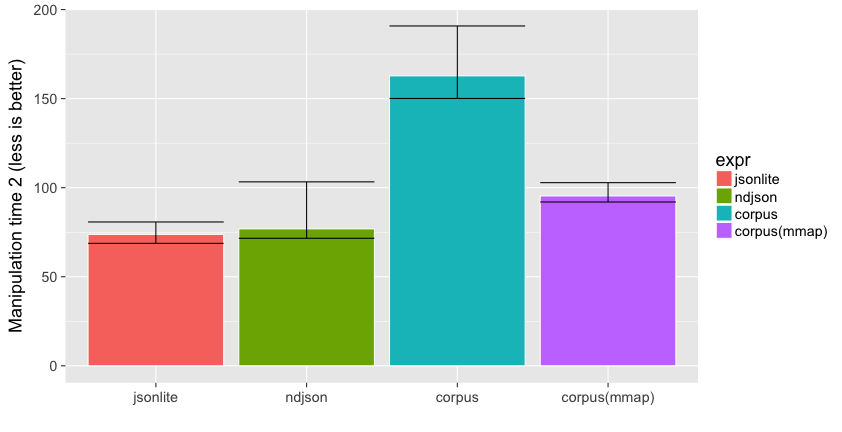
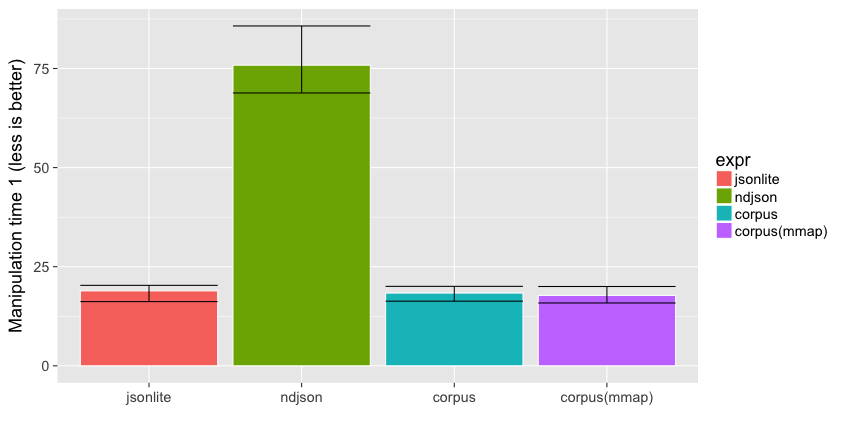
Update benchmarks

diff --git a/benchmark.md b/benchmark.md
@@ -17,6 +17,38 @@ Required packages:
 install.packages(c("nycflights13", "dplyr", "ggplot2", "microbenchmark", "jsonlite", "ndjson", "corpus"))
 ```
 
+
+```r
+options(stringsAsFactors = FALSE)
+sessionInfo()
+```
+
+```
+R version 3.4.0 (2017-04-21)
+Platform: x86_64-apple-darwin15.6.0 (64-bit)
+Running under: macOS Sierra 10.12.5
+
+Matrix products: default
+BLAS: /System/Library/Frameworks/Accelerate.framework/Versions/A/Frameworks/vecLib.framework/Versions/A/libBLAS.dylib
+LAPACK: /Library/Frameworks/R.framework/Versions/3.4/Resources/lib/libRlapack.dylib
+
+locale:
+[1] en_US.UTF-8/en_US.UTF-8/en_US.UTF-8/C/en_US.UTF-8/en_US.UTF-8
+
+attached base packages:
+[1] stats     graphics  grDevices utils     datasets  methods   base     
+
+other attached packages:
+[1] ggplot2_2.2.1 dplyr_0.5.0   knitr_1.16   
+
+loaded via a namespace (and not attached):
+ [1] Rcpp_0.12.11     magrittr_1.5     munsell_0.4.3    colorspace_1.3-2 R6_2.2.1         rlang_0.1.1     
+ [7] stringr_1.2.0    highr_0.6        plyr_1.8.4       tools_3.4.0      grid_3.4.0       gtable_0.2.0    
+[13] DBI_0.6-1        htmltools_0.3.6  lazyeval_0.2.0   assertthat_0.2.0 rprojroot_1.2    digest_0.6.12   
+[19] tibble_1.3.1     rsconnect_0.8    evaluate_0.10    rmarkdown_1.5    stringi_1.1.5    compiler_3.4.0  
+[25] scales_0.4.1     backports_1.1.0 
+```
+
 We also need some test data:
 
 
@@ -46,10 +78,10 @@ print(read_speed)
 ```
 Unit: seconds
          expr       min        lq      mean    median        uq       max neval
-     jsonlite 18.752164 18.845512 19.077748 18.938861 19.240540 19.542220     3
-       ndjson  8.828158  9.183294  9.552292  9.538430  9.914359 10.290287     3
-       corpus  2.000350  2.008242  2.168389  2.016134  2.252409  2.488684     3
- corpus(mmap)  1.353021  1.451502  1.690727  1.549982  1.859580  2.169177     3
+     jsonlite 17.465073 17.812930 18.294812 18.160788 18.709681 19.258575     3
+       ndjson  8.551977  9.876017 10.564287 11.200058 11.570442 11.940827     3
+       corpus  1.837616  2.222862  2.470231  2.608108  2.786539  2.964970     3
+ corpus(mmap)  1.380170  1.456049  1.593488  1.531928  1.700147  1.868366     3
 ```
 
 ```r
@@ -62,7 +94,7 @@ ggplot(read_data, aes(x = expr, fill = expr, y = median, ymin = min, ymax = max)
   xlab("") + ylab("Read time (less is better)")
 ```
 
-![plot of chunk unnamed-chunk-4](figure/unnamed-chunk-4-1.png)
+![plot of chunk unnamed-chunk-5](figure/unnamed-chunk-5-1.png)
 
 ## Working example 1
 
@@ -104,10 +136,10 @@ print(results)
 ```
 Unit: milliseconds
          expr      min       lq     mean   median       uq       max neval
-     jsonlite 14.57813 16.93738 18.64039 18.68784 20.15864  25.05570   100
-       ndjson 54.88622 67.17088 81.50083 73.79354 77.82895 165.98549   100
-       corpus 14.65491 16.58606 18.74153 18.96093 19.92020  36.04901   100
- corpus(mmap) 14.42795 16.80320 18.82784 18.88370 20.23105  42.47390   100
+     jsonlite 14.56588 16.19524 18.93383 18.90781 20.29780  46.70143   100
+       ndjson 52.85495 68.82448 81.12051 75.83665 85.72882 237.58117   100
+       corpus 14.68139 16.30600 18.94647 18.34751 20.04423  76.21080   100
+ corpus(mmap) 14.59073 15.85064 17.99070 17.76591 20.00765  24.14109   100
 ```
 
 ```r
@@ -117,7 +149,7 @@ ggplot(work_data, aes(x = expr, fill = expr, y = median, ymin = lq, ymax = uq)) 
   xlab("") + ylab("Manipulation time 1 (less is better)")
 ```
 
-![plot of chunk unnamed-chunk-6](figure/unnamed-chunk-6-1.png)
+![plot of chunk unnamed-chunk-7](figure/unnamed-chunk-7-1.png)
 
 ## Working example 2
 
@@ -126,7 +158,7 @@ Let's try another example function that also involves strings `tailnum`:
 
 ```r
 work_function <- function(fldata){
-  by_tailnum <- group_by(fldata, as.character(tailnum))
+  by_tailnum <- group_by(fldata, tailnum)
   delay <- summarise(by_tailnum,
     count = n(),
     dist = mean(distance, na.rm = TRUE),
@@ -148,11 +180,11 @@ print(results)
 
 ```
 Unit: milliseconds
-         expr       min        lq      mean    median        uq      max neval
-     jsonlite  65.41017  68.75156  75.28772  73.79326  80.75959 102.8780   100
-       ndjson  63.04098  71.60251  91.38377  76.90047 103.27820 255.2030   100
-       corpus 118.82503 150.10638 173.24598 162.80004 190.80678 346.1251   100
- corpus(mmap)  84.91291  91.97479 100.47743  95.39058 102.82636 311.7818   100
+         expr      min       lq     mean   median       uq      max neval
+     jsonlite 60.90102 64.03197 66.28742 65.40403 66.64907 123.4093   100
+       ndjson 25.70644 35.11290 43.46404 37.26581 42.54079 104.1210   100
+       corpus 60.70241 64.27781 67.56528 65.79940 68.02163 122.0678   100
+ corpus(mmap) 60.88245 63.86023 65.96790 65.12887 66.81371 121.8869   100
 ```
 
 ```r
@@ -162,4 +194,4 @@ ggplot(work_data, aes(x = expr, fill = expr, y = median, ymin = lq, ymax = uq)) 
   xlab("") + ylab("Manipulation time 2 (less is better)")
 ```
 
-![plot of chunk unnamed-chunk-7](figure/unnamed-chunk-7-1.png)
+![plot of chunk unnamed-chunk-8](figure/unnamed-chunk-8-1.png)
